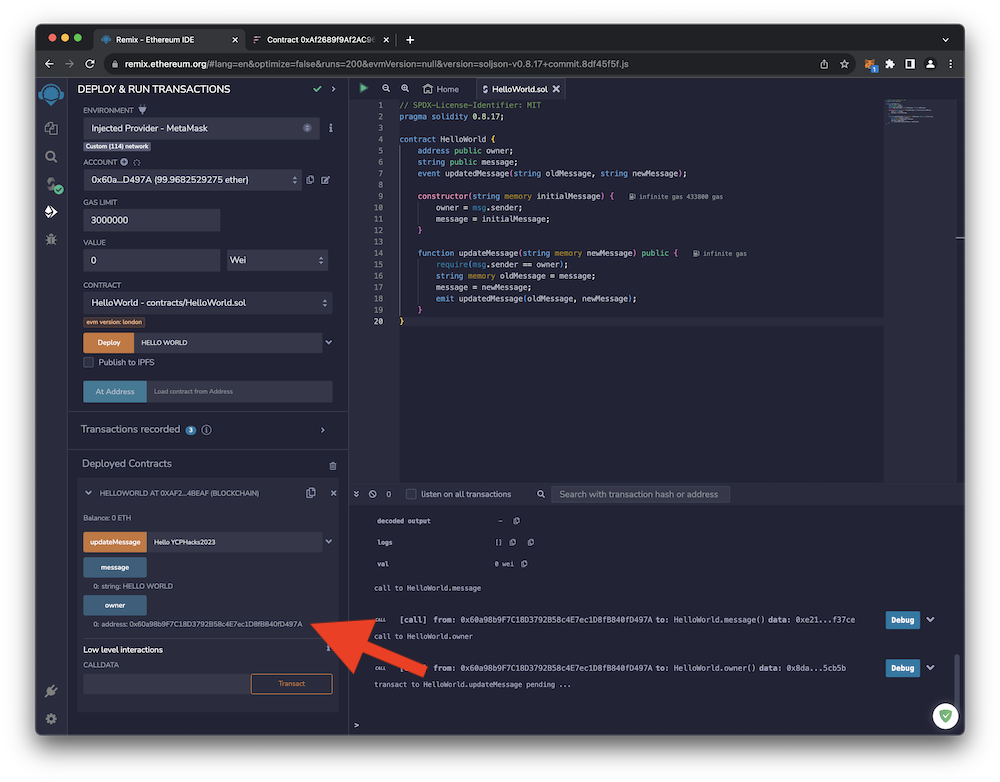
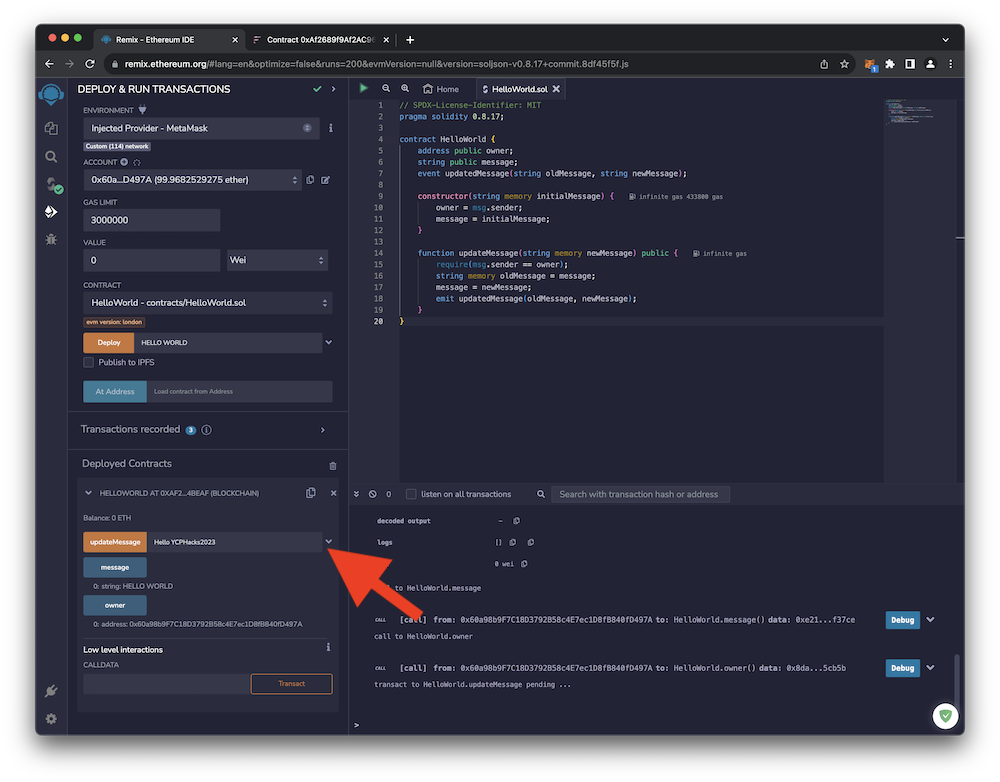
completed first draft

Changed region(s): [[0.31, 0.7059, 0.434, 0.8593]]

diff --git a/docs/interacting_with_smart_contract.md b/docs/interacting_with_smart_contract.md
@@ -1,37 +1,47 @@
 # Interacting with your Smart Contract
 
+The **_[Remix Online IDE](https://remix.ethereum.org/)_** provides a convenient interface to interact with and test your new smart contract. This portion of the guide walks through interacting with your smart contract on the **_[Flare Network](https://flare.network)_**.
+
+For a real-world deployment, you can utilize JavaScript and/or other web technologies to interact with your smart contract.
+
+<br>
+<hr>
 
 
 
-
-
-
-
-1.
+1. In the left sidebar of the Remix interface, find the **Deployed Contracts** area and expand the information about your **Hello World** smart contract. Remix understands the interface for your smart contract and generates a simple user interface. The blue buttons simple query the smart contract for information but don't modify the state of the contract. The orange button modifies the state of the smart contract and thus will require that you sign the transaction.
     <br>
-    ![XXXX](images/interacting_with_smart_contract/small/1_view_current_message.png){ loading=lazy width="600" }
+    ![Read the message value from the smart contract](images/interacting_with_smart_contract/small/1_view_current_message.png){ loading=lazy width="600" }
     <br>
-    ![XXXX](images/interacting_with_smart_contract/small/1b_message_retrieved.png){ loading=lazy width="600" }
+    Click on the blue **message** button to see the **message** value currently stored by the smart contract.
+    <br>
+    ![The message value is retrieved](images/interacting_with_smart_contract/small/1b_message_retrieved.png){ loading=lazy width="600" }
     <br><br>
-2.
+2. Click on the blue **owner** button to see the **owner** value stored by the smart contract. Note that the **owner** value cannot be changed as it was set in the constructor.
     <br>
-    ![XXXX](images/interacting_with_smart_contract/small/2_view_owner.png){ loading=lazy width="600" }
+    ![Read the owner value from the smart contract](images/interacting_with_smart_contract/small/2_view_owner.png){ loading=lazy width="600" }
     <br>
-3.
+    You should see your Flare Network address.
     <br>
-    ![XXXX](images/interacting_with_smart_contract/small/3_update_message.png){ loading=lazy width="600" }
+    ![The owner value is retrieved](images/interacting_with_smart_contract/small/2b_owner_retrieved.png){ loading=lazy width="600" }
     <br>
-    ![XXXX](images/interacting_with_smart_contract/small/3b_confirm_transaction.png){ loading=lazy width="600" }
+3. To write a new **message** value to the contract, enter the text of your new message into the **updateMessage** box and click the **updateMessage** button.
+    <br>
+    ![Enter a new message](images/interacting_with_smart_contract/small/3_update_message.png){ loading=lazy width="600" }
+    <br>
+    Since you're writing to the smart contract, you'll need to sign this transaction.  MetaMask should pop up automatically. Review the transaction details and click **Confirm**.
+    <br>
+    ![Confirm the transaction in MetaMask](images/interacting_with_smart_contract/small/3b_confirm_transaction.png){ loading=lazy width="600" }
     <br><br>
-4.
+4. If the transaction is successful, you'll see message in the console window indicating the transaction is complete. Expanding the message will reveal additional information, including the text that is emitted by the **updatedMessage** event.
     <br>
-    ![XXXX](images/interacting_with_smart_contract/small/4_transaction_success.png){ loading=lazy width="600" }
+    ![Successful transaction](images/interacting_with_smart_contract/small/4_transaction_success.png){ loading=lazy width="600" }
     <br>
-5.
+5. Return to the **[Coston2 Blockchain Explorer](https://coston2-explorer.flare.network/)** and find your smart contract by searching its address. You'll see a transaction labeled **Contract Call Success**.  This is the transaction that you issued to update the **message** state of the smart contract.
     <br>
-    ![XXXX](images/interacting_with_smart_contract/small/5_view_call_on_explorer.png){ loading=lazy width="600" }
+    ![View transaction on the Blockchain Explorer](images/interacting_with_smart_contract/small/5_view_call_on_explorer.png){ loading=lazy width="600" }
     <br>
-6.
+6. Back in the Remix window, click on the blue **message** button once again. You should now see the new message.
     <br>
-    ![XXXX](images/interacting_with_smart_contract/small/6_view_updated_message.png){ loading=lazy width="600" }
+    ![View the new message](images/interacting_with_smart_contract/small/6_view_updated_message.png){ loading=lazy width="600" }
     <br>

diff --git a/docs/index.md b/docs/index.md
@@ -1,3 +1,6 @@
 # Introduction
 
-Some text
+This guide provides a step-by-step walkthrough of developing a simple **"Hello World"** smart contract. The smart contract will be developed using the **_[Remix Online IDE](https://remix.ethereum.org/)_** and programmed in **_[Solidity](https://soliditylang.org)_**. It will then be deployed onto the **_[Flare Network](https://flare.network/)_** with the assistance of a common Web3 wallet, **_[MetaMask](https://metamask.io)_**.
+
+
+While the **"Hello World"** smart contract is a fairly common beginner's example, the version presented in this guide adds a few extra features to explore some additional smart contract capabilities.
